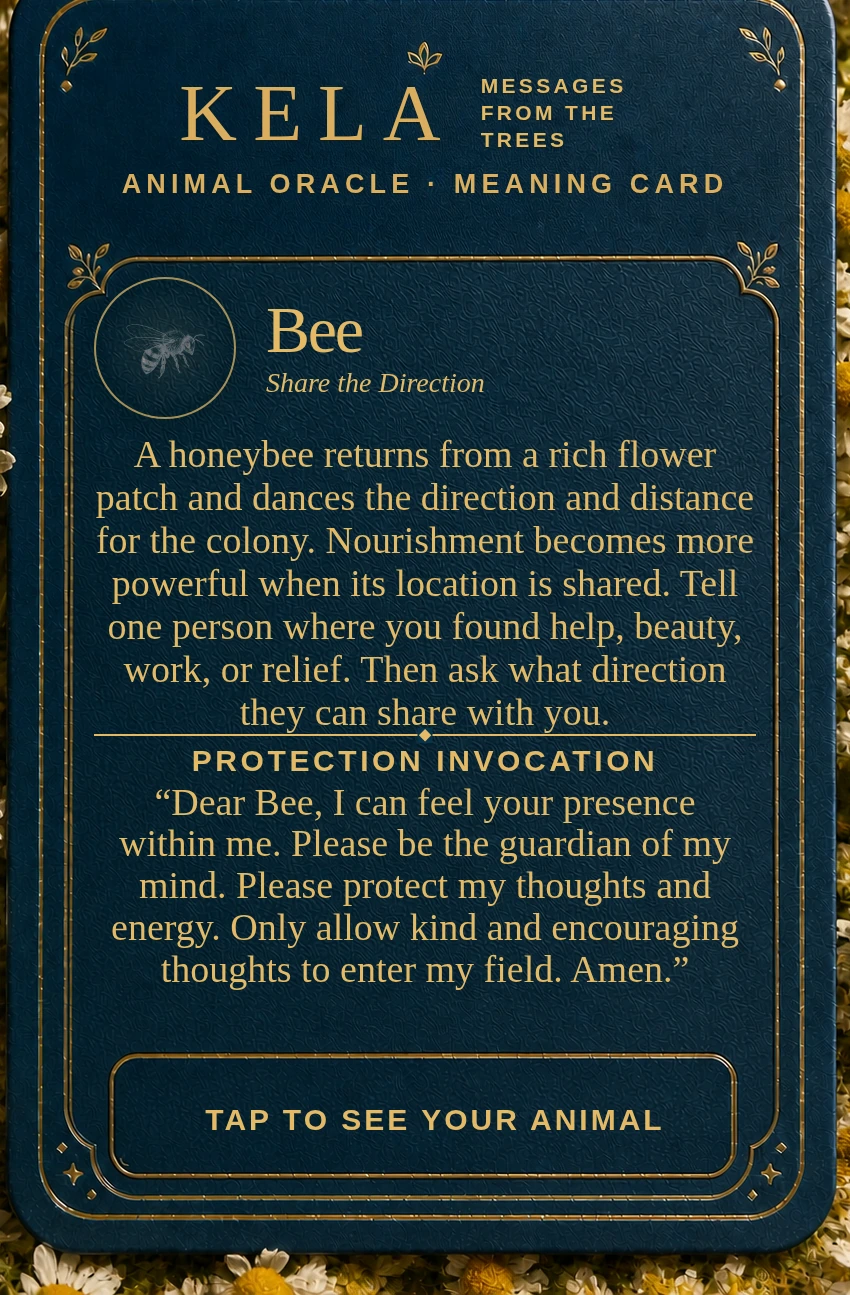
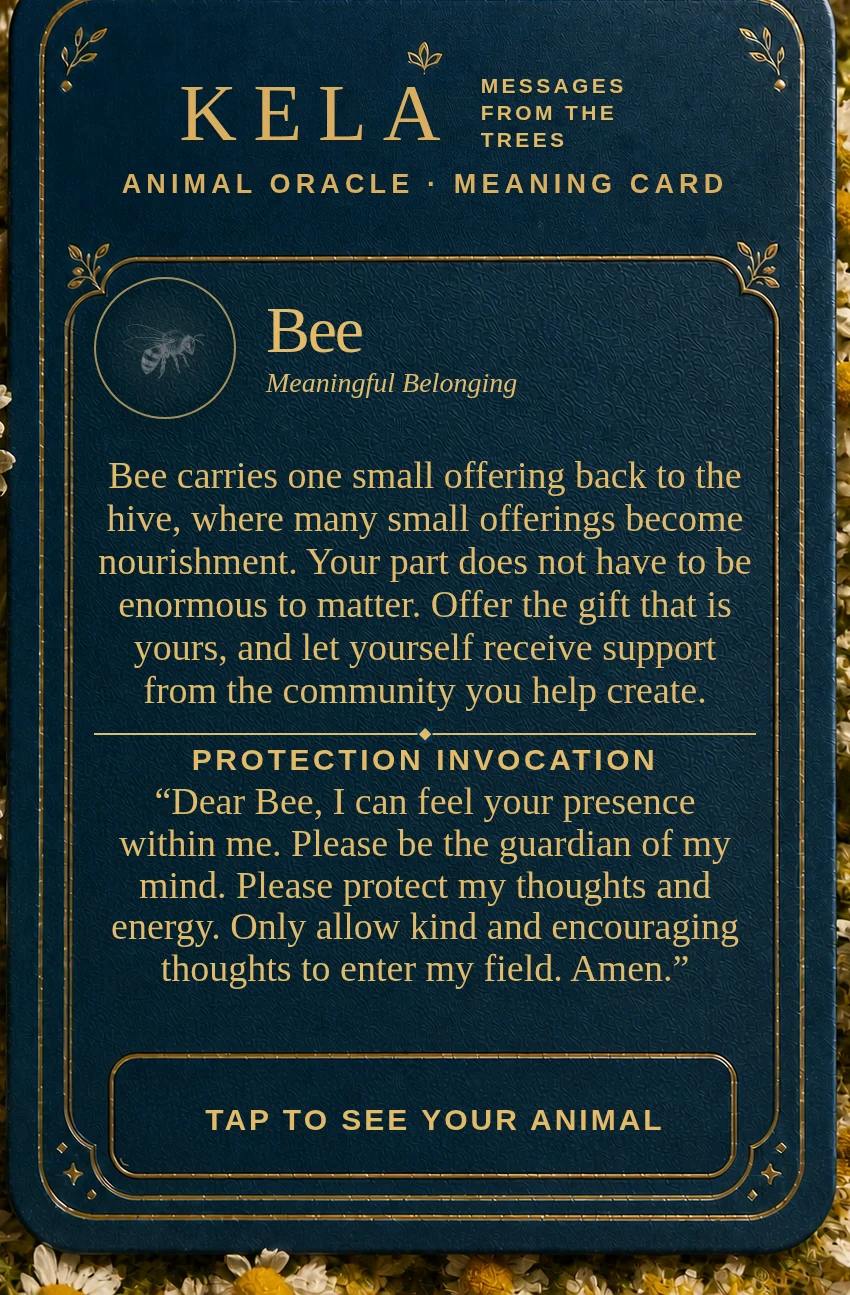
Refresh Bee and Madrona oracle cards

diff --git a/photo-credits.html b/photo-credits.html
@@ -63,7 +63,7 @@
         <article><h2>Horse</h2><p>Photo by Ealdgyth. <a href="https://commons.wikimedia.org/wiki/File:Halterstandingshotarabianone.jpg" target="_blank" rel="noopener">View the original</a>. Licensed under <a href="https://creativecommons.org/licenses/by-sa/3.0/" target="_blank" rel="license noopener">CC BY-SA 3.0</a>.</p></article>
         <article><h2>Elephant</h2><p>Photo by Giles Laurent. <a href="https://commons.wikimedia.org/wiki/File:178_Male_African_bush_elephant_in_Etosha_National_Park_Photo_by_Giles_Laurent.jpg" target="_blank" rel="noopener">View the original</a>. Licensed under <a href="https://creativecommons.org/licenses/by-sa/4.0/" target="_blank" rel="license noopener">CC BY-SA 4.0</a>.</p></article>
         <article><h2>Moth</h2><p>Photo by David notMD. <a href="https://commons.wikimedia.org/wiki/File:Actias_luna-male.jpg" target="_blank" rel="noopener">View the original</a>. Licensed under <a href="https://creativecommons.org/licenses/by-sa/4.0/" target="_blank" rel="license noopener">CC BY-SA 4.0</a>.</p></article>
-        <article><h2>Bee</h2><p>Photo by Andreas Trepte. <a href="https://commons.wikimedia.org/wiki/File:Apis_mellifera_Western_honey_bee.jpg" target="_blank" rel="noopener">View the original</a>. Licensed under <a href="https://creativecommons.org/licenses/by-sa/2.5/" target="_blank" rel="license noopener">CC BY-SA 2.5</a>.</p></article>
+        <article><h2>Bee</h2><p>Photo by Ivar Leidus, cropped for the card. <a href="https://commons.wikimedia.org/wiki/File:Apis_mellifera_-_Carduus_crispus_-_Keila.jpg" target="_blank" rel="noopener">View the original</a>. Licensed under <a href="https://creativecommons.org/licenses/by-sa/4.0/" target="_blank" rel="license noopener">CC BY-SA 4.0</a>.</p></article>
         <article><h2>Dolphin</h2><p>NASA photograph. <a href="https://commons.wikimedia.org/wiki/File:Tursiops_truncatus_01-cropped.jpg" target="_blank" rel="noopener">View the original</a>. Public domain.</p></article>
         <article><h2>Snake</h2><p>Photo by Wilson44691. <a href="https://commons.wikimedia.org/wiki/File:Thamnophis_sirtalis_sirtalis_Wooster.jpg" target="_blank" rel="noopener">View the original</a>. Public domain.</p></article>
         <article><h2>Dragonfly</h2><p>Photo by Quartl. <a href="https://commons.wikimedia.org/wiki/File:Anax_imperator_qtl2.jpg" target="_blank" rel="noopener">View the original</a>. Licensed under <a href="https://creativecommons.org/licenses/by/3.0/" target="_blank" rel="license noopener">CC BY 3.0</a>.</p></article>

diff --git a/animal-guide.js b/animal-guide.js
@@ -183,12 +183,12 @@ const animalGuides = [
   {
     name: "Bee",
     art: "assets/animals/bee.webp",
-    keyword: "Share the Direction",
+    keyword: "Meaningful Belonging",
     accent: "#d1ad55",
     message:
-      "A honeybee returns from a rich flower patch and dances the direction and distance for the colony. Nourishment becomes more powerful when its location is shared. Tell one person where you found help, beauty, work, or relief. Then ask what direction they can share with you.",
+      "Bee carries one small offering back to the hive, where many small offerings become nourishment. Your part does not have to be enormous to matter. Offer the gift that is yours, and let yourself receive support from the community you help create.",
     echo:
-      "If Bee, honeycomb, buzzing, jewelry, or a bee image follows you, ask what useful direction wants to be shared. Let Bee confirm reciprocal belonging.",
+      "When Bee, honeycomb, buzzing, jewelry, or a bee image follows you, ask where your gifts and presence are meant to contribute. Let Bee remind you that belonging is built through shared care.",
   },
   {
     name: "Dolphin",
@@ -348,7 +348,7 @@ const preloadGuideCard = (index) => {
     };
     image.addEventListener("load", finish);
     image.addEventListener("error", finish);
-    image.src = `${cardAssetBase}-${side}.webp?v=20260827-6`;
+    image.src = `${cardAssetBase}-${side}.webp?v=20260828-1`;
     if (image.complete && image.naturalWidth > 0) finish();
   });
   return Promise.all([
@@ -402,8 +402,8 @@ const fillGuide = (index, colorIndex) => {
   oracleCard.style.setProperty("--guide-accent", cardColor.value);
   updateGuideSeo(guide, cardColor);
   const cardAssetBase = `assets/oracle-cards/animal/${slugify(guide.name)}`;
-  const cardFrontSrc = `${cardAssetBase}-front.webp?v=20260827-6`;
-  const cardBackSrc = `${cardAssetBase}-back.webp?v=20260827-6`;
+  const cardFrontSrc = `${cardAssetBase}-front.webp?v=20260828-1`;
+  const cardBackSrc = `${cardAssetBase}-back.webp?v=20260828-1`;
   if (animalCardFront) {
     if (animalCardFront.getAttribute("src") !== cardFrontSrc) animalCardFront.src = cardFrontSrc;
     animalCardFront.alt = `${guide.name} KELA Animal Oracle card`;

diff --git a/tree-oracle.js b/tree-oracle.js
@@ -6,7 +6,7 @@ const treeGuides = [
     keyword: "Inner Vision",
     accent: "#a2769f",
     message:
-      "Madrona grows throughout Orcas Island. Patti feels its presence like the vortex energy of Sedona. Place both feet on the ground. Take three slow breaths. Feel into Madrona and ask it to protect your mind and your energy. Notice which thoughts become quieter.",
+      "Madrona grows throughout Orcas Island, where its presence can feel like the vortex energy of Sedona. Place both feet on the ground. Take three slow breaths. Feel into Madrona and ask it to protect your mind and your energy. Notice which thoughts become quieter.",
     attunement:
       "Place one hand on your heart and one on your forehead. Say aloud: Madrona, protect my mind and my energy. Take three slow breaths.",
     question: "What thought can I release from my field today?",
@@ -258,7 +258,7 @@ const preloadTreeCard = (index) => {
     };
     image.addEventListener("load", finish);
     image.addEventListener("error", finish);
-    image.src = `${cardAssetBase}-${side}.webp?v=20260827-4`;
+    image.src = `${cardAssetBase}-${side}.webp?v=20260828-1`;
     if (image.complete && image.naturalWidth > 0) finish();
   });
   return Promise.all([
@@ -306,8 +306,8 @@ const fillTree = (index) => {
   oracleCard.style.setProperty("--guide-accent", tree.accent);
   updateTreeSeo(tree);
   const cardAssetBase = `assets/oracle-cards/tree/${slugify(tree.name)}`;
-  const cardFrontSrc = `${cardAssetBase}-front.webp?v=20260827-4`;
-  const cardBackSrc = `${cardAssetBase}-back.webp?v=20260827-4`;
+  const cardFrontSrc = `${cardAssetBase}-front.webp?v=20260828-1`;
+  const cardBackSrc = `${cardAssetBase}-back.webp?v=20260828-1`;
   if (treeCardFront) {
     if (treeCardFront.getAttribute("src") !== cardFrontSrc) treeCardFront.src = cardFrontSrc;
     treeCardFront.alt = `${tree.name} KELA Tree Oracle card`;

diff --git a/animal-oracle.html b/animal-oracle.html
@@ -41,7 +41,7 @@
     <script src="script.js?v=20260827-4" defer></script>
     <script src="free-online-oracle-labels.js?v=20260827-1" defer></script>
     <script src="ux-observer.js?v=20260825-2" data-clarity-project-id="" defer></script>
-    <script src="animal-guide.js?v=20260827-6" defer></script>
+    <script src="animal-guide.js?v=20260828-1" defer></script>
     <script src="patti-oracle-access.js?v=20260827-2" defer></script>
     <script type="application/ld+json">
       {

diff --git a/tree-oracle.html b/tree-oracle.html
@@ -41,7 +41,7 @@
     <script src="script.js?v=20260827-4" defer></script>
     <script src="free-online-oracle-labels.js?v=20260827-1" defer></script>
     <script src="ux-observer.js?v=20260825-2" data-clarity-project-id="" defer></script>
-    <script src="tree-oracle.js?v=20260827-5" defer></script>
+    <script src="tree-oracle.js?v=20260828-1" defer></script>
     <script src="patti-oracle-access.js?v=20260827-2" defer></script>
     <script type="application/ld+json">
       {
